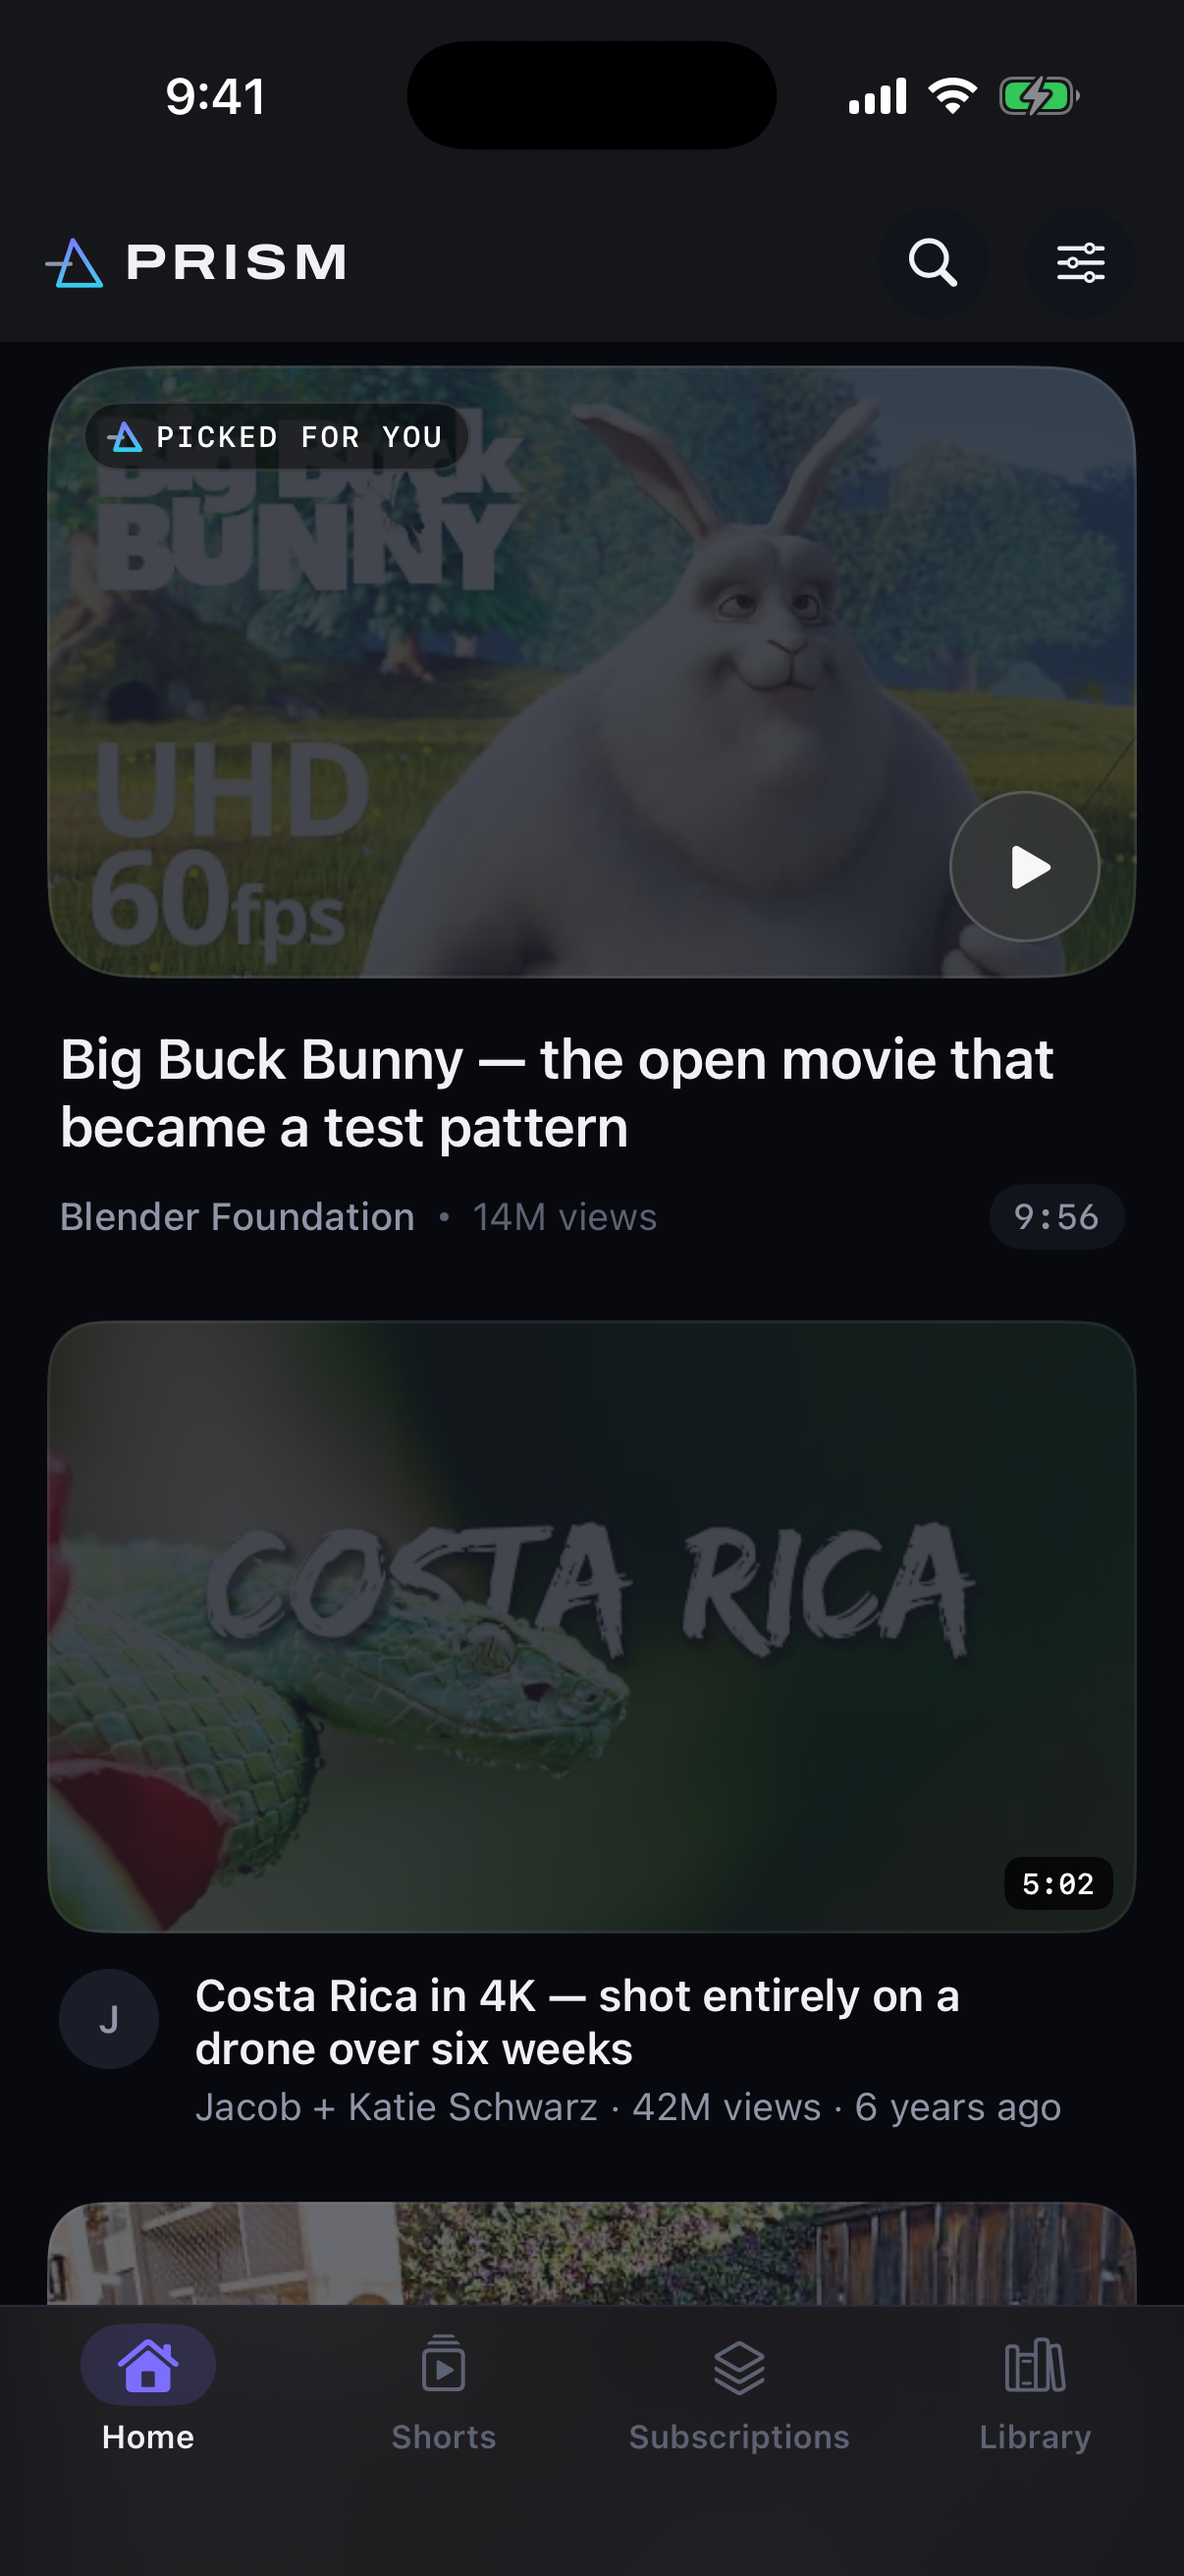
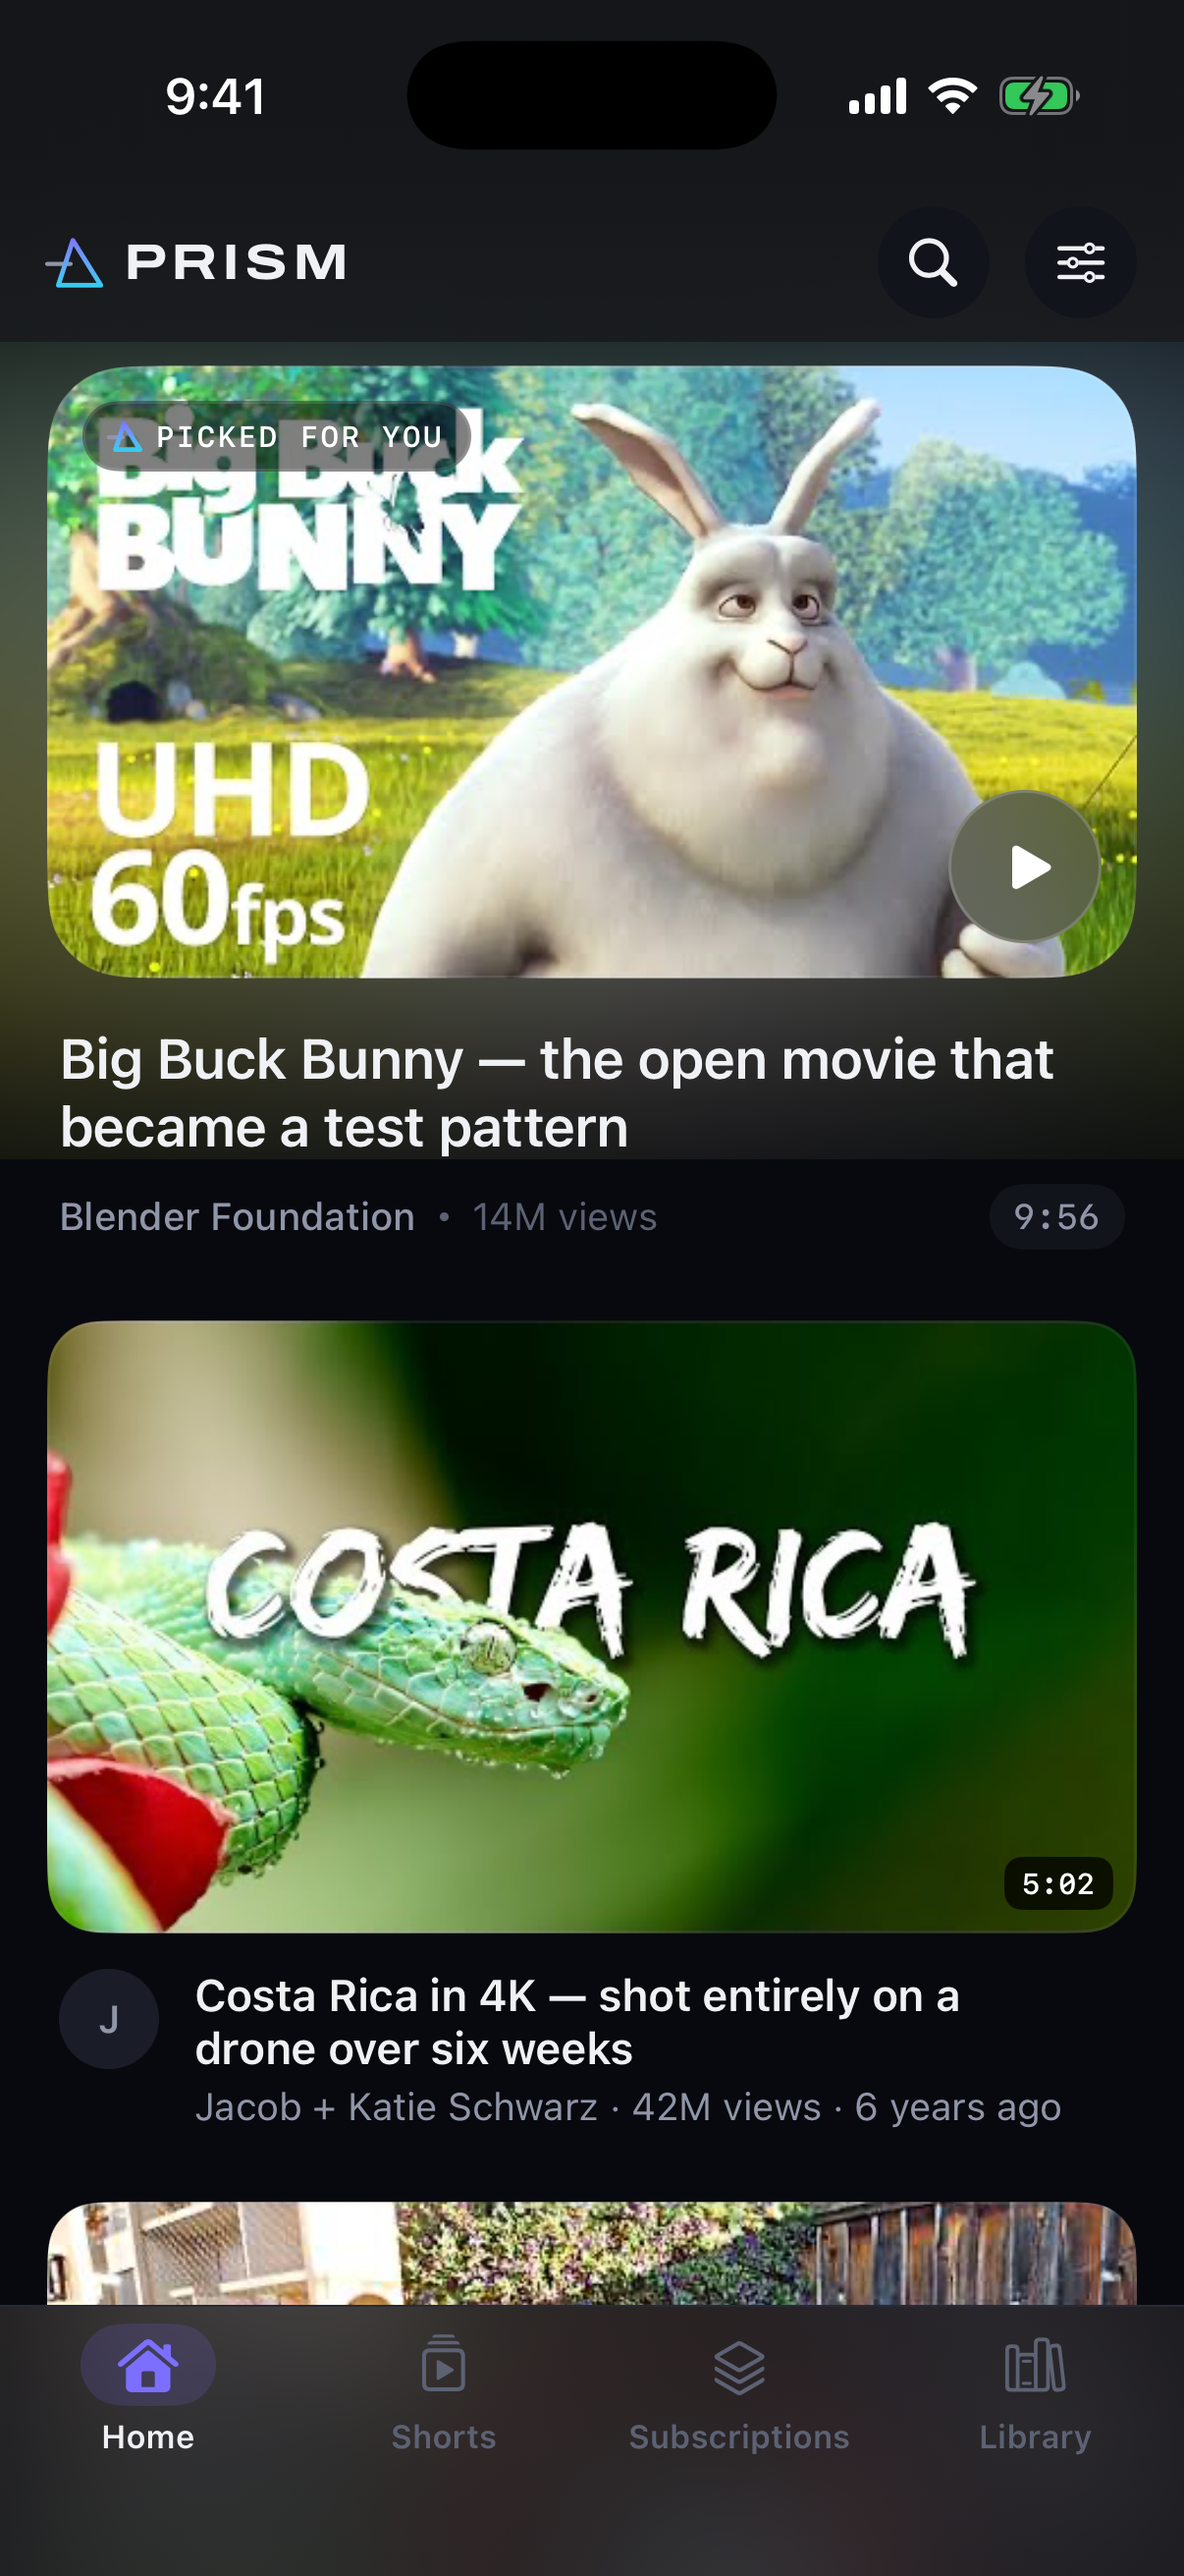
Mask the hero glow at both ends
Same fix as the watch screen: unmasked, the spill ends on a straight edge that
reads as a tinted panel running under the title rather than as light coming off
the artwork.

diff --git a/Sources/Prism/Features/Home/HeroCard.swift b/Sources/Prism/Features/Home/HeroCard.swift
@@ -55,6 +55,20 @@ struct HeroCard: View {
                 AmbientGlow(image: glow.image, intensity: 0.5, blur: 48)
                     .scaleEffect(1.12)
                     .offset(y: 10)
+                    // Faded at both ends, so the spill reads as light coming off
+                    // the artwork rather than a tinted panel with a visible edge
+                    // running under the title.
+                    .mask(
+                        LinearGradient(
+                            stops: [
+                                .init(color: .clear, location: 0),
+                                .init(color: .white, location: 0.25),
+                                .init(color: .white, location: 0.6),
+                                .init(color: .clear, location: 1),
+                            ],
+                            startPoint: .top, endPoint: .bottom
+                        )
+                    )
                     .opacity(appeared ? 1 : 0)
                     .animation(Motion.ambient, value: glow.image != nil)
             }
